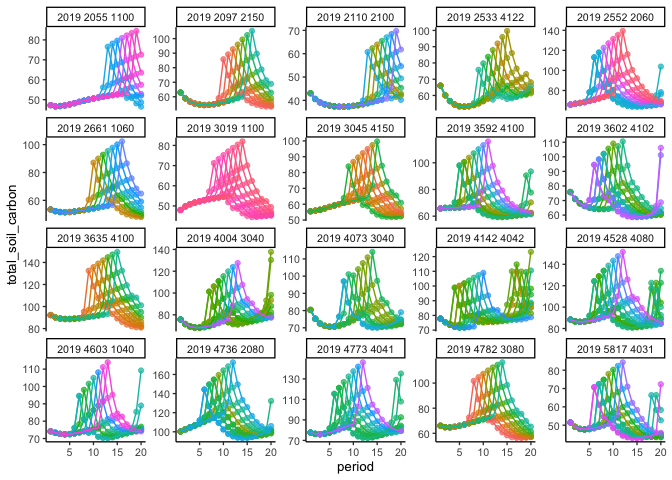
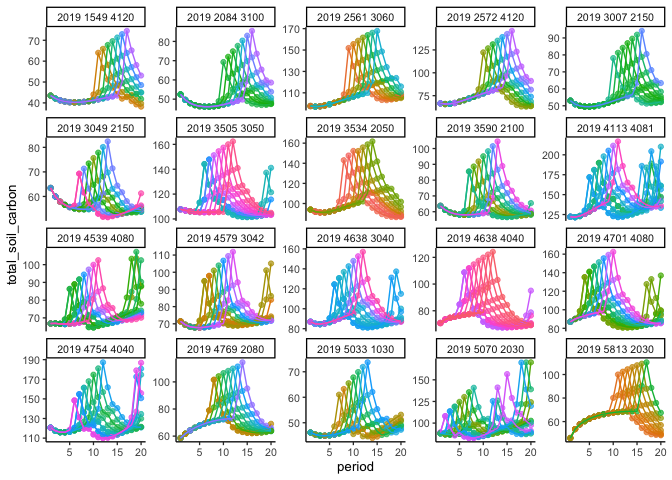
same soil carbon at period one

diff --git a/code/exploration/2023-10-30_filtering-test.md b/code/exploration/2023-10-30_filtering-test.md
@@ -18,6 +18,8 @@ library("janitor")
     `Initial State`)
 4.  Select plots which have had a `BAU - NoThinning` action happen at
     the same time period
+5.  Select plots where BAU and set aside have the same soil carbon at
+    period 1
 
 ## 1. Read in a subset of the data and remove peat plots.
 
@@ -154,6 +156,20 @@ plots_bau_sa %>%
   bind_rows(plots_bau_12) -> test_plots
 ```
 
+## Select plots where BAU and set aside have the same soil carbon at period 1
+
+``` r
+test_plots %>%
+  filter(period == 1) %>% 
+  group_by(description) %>% 
+  mutate(dupes = as.integer(n_distinct(total_soil_carbon) == 1)) %>% 
+  filter(dupes == 1) %>% 
+  select(description) -> list_same_start
+
+test_plots %>%
+  filter(description %in% list_same_start$description) -> test_plots
+```
+
 Check!
 
 ``` r
@@ -174,6 +190,6 @@ test_plots %>%
     ## Call `lifecycle::last_lifecycle_warnings()` to see where this warning was
     ## generated.
 
-![](figures/2023-10-30_filtering-test/unnamed-chunk-9-1.png)<!-- -->
+![](figures/2023-10-30_filtering-test/unnamed-chunk-10-1.png)<!-- -->
 
 These look good!
